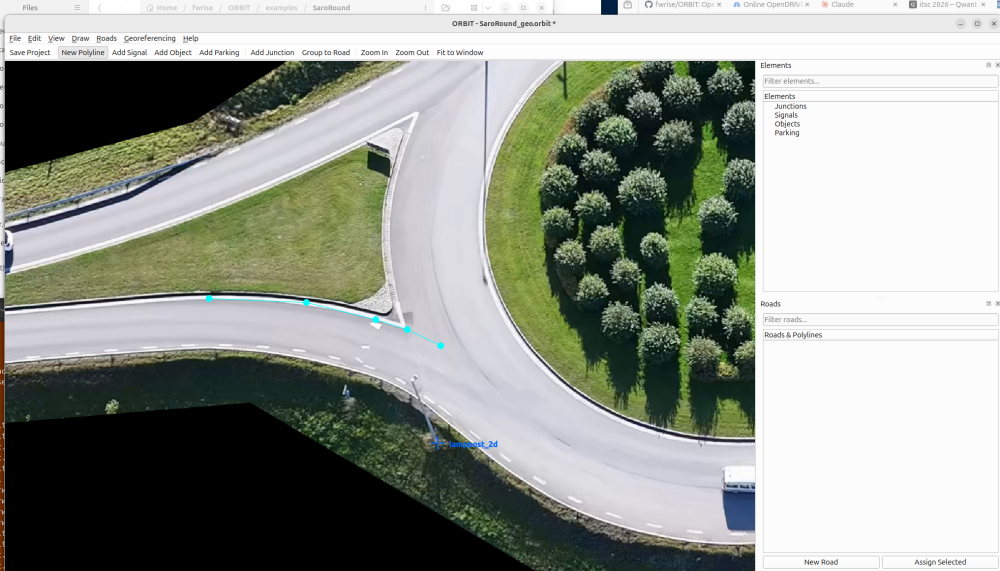
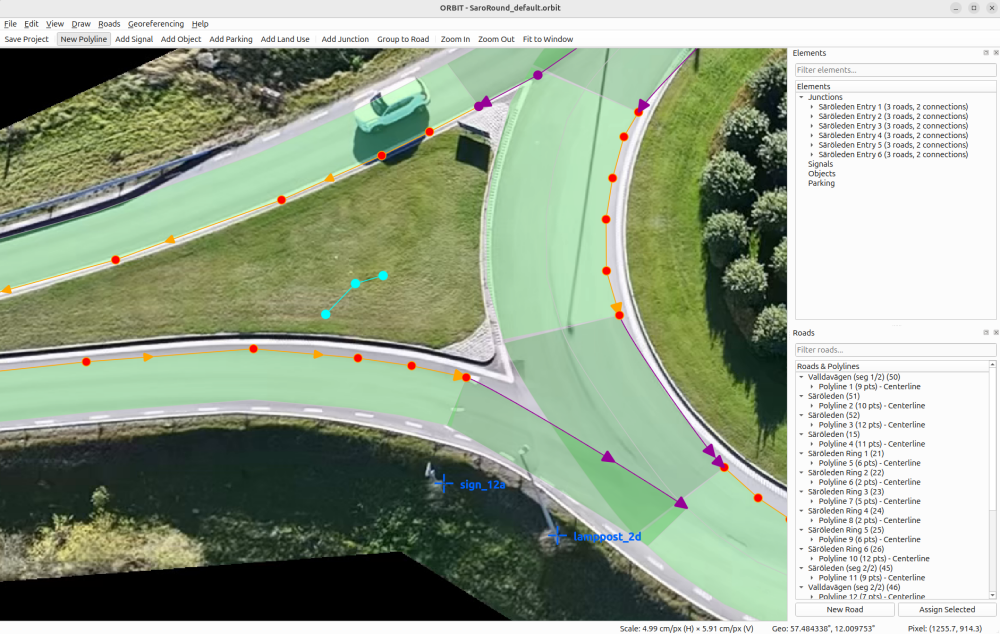
Updated user guide

diff --git a/docs/USER_GUIDE.md b/docs/USER_GUIDE.md
@@ -181,6 +181,8 @@ Roads group polylines and define lane configuration.
 
 ### Road Properties
 
+![Road properties dialog](screenshot_road_properties_dialog.png)
+
 **Basic Properties**:
 - **Road Name**: Descriptive name (e.g., "Main Street")
 - **Road Type**: ASAM OpenDRIVE road type (motorway, town, rural, etc.)
@@ -218,7 +220,17 @@ The Roads panel shows a hierarchical tree:
 
 ## Lane Sections
 
+![Road Tree with sections and context menu](screenshot_road_tree_sections.png)
+
 Roads can be divided into sections where lane configuration changes.
+
+Section commands live in three places:
+
+| Right-click on... | Menu items |
+|---|---|
+| A **centerline point** on the canvas | Split Section Here, Split Road Here, Delete Point |
+| A **section** in the Road Tree | Edit Section Properties, Add Lane..., Delete Section (shown only when the road has more than one section) |
+| A **lane** in the Road Tree | Edit Lane Properties, Remove Lane |
 
 ### Creating Sections
 
@@ -245,6 +257,8 @@ Two or more consecutive sections with the same lane IDs can be merged back into 
 > **Note**: Merging resets the width polynomial to linear. If sections had cubic width polynomials those are simplified.
 
 ### Adding and Removing Lanes
+
+![Add lane dialog](screenshot_add_lane_dialog.png)
 
 A lane can be added to or removed from a single section — this is how lane
 splits, merges, and turn pockets are modeled:
@@ -280,14 +294,52 @@ To model a turn pocket that tapers out of a through lane before a junction:
    renumbered through lane automatically).
 
 For a merge lane after the junction, mirror the pattern with a
-3.5 → 0 m taper. The same steps model a one-lane approach that splits into
-separate left/right turn lanes before a junction.
+3.5 → 0 m taper.
+
+### Example: Approach Splitting into Left/Right Turn Lanes
+
+Where a single-lane approach to a T-junction widens into a dedicated
+left-turn lane and right-turn lane:
+
+1. Split the approach section twice: where both lanes reach full width and
+   where the widening begins. This gives full-width / taper / single-lane
+   sections.
+2. **Full-width section** → Add Lane...: approach side, **innermost**
+   position, driving, constant width. The innermost lane is the leftmost
+   lane in the direction of travel, so it becomes the left-turn lane; the
+   original lane is renumbered outward and becomes the right-turn lane.
+3. **Taper section** → Add Lane...: same position, tapering to 0 toward the
+   single-lane section. Width start/end follow the road's s-direction: if
+   the junction is at the road's *start*, the taper is 3.5 → 0 m; if at the
+   *end*, 0 → 3.5 m.
+4. Open **Edit Lane Connections**: the original lane's movements were
+   remapped to the renumbered (outer) lane. Move the left-turn connection to
+   the new innermost lane and keep the right turn on the outer lane.
 
 ### Section Properties
 
 - **Section Number**: Sequential numbering (1, 2, 3...)
 - **s_start / s_end**: Position along centerline
 - **singleSide**: OpenDRIVE attribute (left, right, or none)
+
+### Lane Properties
+
+![Lane properties dialog](screenshot_lane_properties_dialog.png)
+
+Double-click a lane in the Road Tree (or right-click → **Edit Lane
+Properties**) to edit an individual lane within a section:
+
+- **Lane Type**: driving, biking, sidewalk, shoulder, parking, etc.
+- **Road Mark**: type, color, weight, and mark width
+- **Width**: constant, or check **Variable width** for a linear start → end
+  taper; advanced polynomial coefficients (b, c, d) are available under
+  Advanced
+- **Speed**: per-lane speed limit
+- **Access**: bicycle/pedestrian access restrictions
+- **Outer Boundary**: bind the lane's outer edge to a drawn polyline
+  (explicit boundary) instead of the width-based offset
+- **OpenDRIVE 1.8**: direction, advisory, level flag, and explicit
+  predecessor/successor lane links (0 = none)
 
 ---
 
@@ -324,7 +376,7 @@ Junctions handle intersections where multiple roads meet.
 Create roundabouts via Roads → Create Roundabout (**Ctrl+Shift+R**):
 
 - **Center Point**: Click "Pick on Map" or enter coordinates
-- **Radius**: Inner and outer radius
+- **Radius**: Ring radius (enter or "Pick Radius from Map") and ring resolution
 - **Lanes**: Number of circular lanes
 - **Traffic Direction**: Clockwise or counter-clockwise
 - **Approach Roads**: Select connecting roads
@@ -378,6 +430,8 @@ Junction groups combine multiple junctions into a logical unit, as defined in Op
 ## Lane Connections
 
 Lane connections define the lane-level mappings through junctions — which incoming lane connects to which outgoing lane.
+
+![Lane connections dialog](screenshot_lane_connections_dialog.png)
 
 ### Editing Lane Connections
 
@@ -589,15 +643,21 @@ Import existing .xodr files for round-trip editing:
    - Georeferencing Status: Active (green) required
    - Transformation Info: control points, RMS error, scale
 3. Set export options:
-   - **Preserve Geometry**: Keep all polyline points (default)
-   - **Curve Fitting**: Enable line/arc fitting with configurable tolerances:
-     - **Line tolerance**: Maximum deviation for line segments (meters)
-     - **Arc tolerance**: Maximum deviation for arc segments (meters)
-     - **Clothoid tolerance**: Maximum deviation for clothoid segments (meters)
-   - **Enable Clothoids**: Toggle clothoid (Euler spiral) fitting
-   - **XSD Validation**: Toggle schema validation against ASAM XSD (requires `--xodr_schema` flag)
+   - **Preserve Geometry**: Keep all polyline points (default). Uncheck to
+     enable curve fitting with **Line/Arc Tolerance** (maximum deviation in
+     meters)
+   - **Projection**: UTM, Transverse Mercator, or Preserved
+   - **Origin Point**: Control point or custom latitude/longitude for the
+     coordinate origin
+   - **Signal Codes**: Optionally use German (DE) equivalent codes for signals
+   - **Compatibility**: CARLA compatibility mode (OpenDRIVE 1.4)
+   - **Feature Categories**: Select which object types to include (shown when
+     the project contains objects)
 4. Click "Browse" to select output location
 5. Click "Export"
+
+> **Note**: XSD schema validation runs automatically when ORBIT was launched
+> with the `--xodr_schema` flag — there is no toggle in the dialog.
 
 ### Export Georeferencing
 
